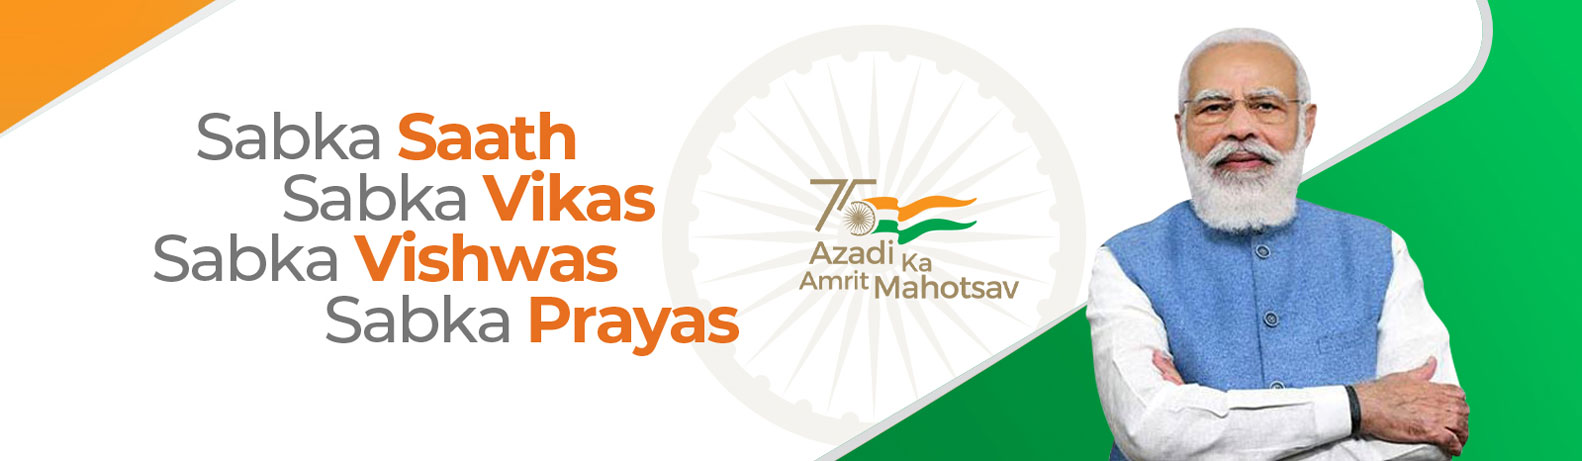
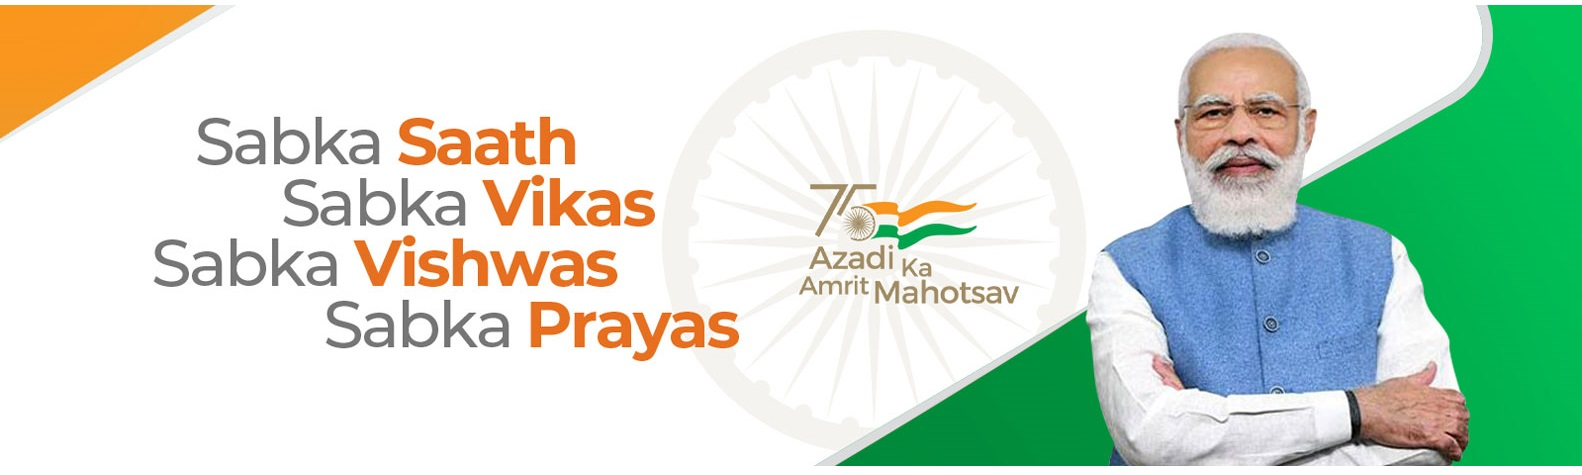
newer

diff --git a/src/assets/components/Home/Home.jsx b/src/assets/components/Home/Home.jsx
@@ -4,7 +4,7 @@ import 'bootstrap/dist/css/bootstrap.min.css';
 import Login from './Login';
 import Footer from './Footer';
 import CustomNavbar from './CustomNavbar';
-
+import Carousel from 'react-bootstrap/Carousel';
 
 const Home = () => (
 
@@ -19,7 +19,22 @@ const Home = () => (
     </div> */}
 
     <div className="row">
-      <img src='/img/akam-saath-prayas.jpg' className="w-100 h-0" alt="..." />
+
+
+    <Carousel interval={1000} controls={false}>
+          <Carousel.Item >
+          <img src='/img/akam-saath-prayas.jpg' className="w-100 h-0" alt="..." />
+          </Carousel.Item>
+          <Carousel.Item>
+          <img src='/img/Digital-india-black.jpg' className="w-100 h-0" alt="..." />
+          </Carousel.Item>
+          <Carousel.Item>
+          <img src='/img/fast-tag.jpg' className="w-100 h-0" alt="..." />
+          </Carousel.Item>
+
+         
+        </Carousel>
+      
     </div>
     <div className="row">
 

diff --git a/src/assets/components/Corousal.jsx b/src/assets/components/Corousal.jsx
@@ -1,0 +1,21 @@
+
+
+import Carousel from 'react-bootstrap/Carousel';
+const Corousal=({img})=>{
+   
+
+
+
+    return (
+        <Carousel>
+          <Carousel.Item interval={1000}>
+            <ExampleCarouselImage text="First slide" />
+            <Carousel.Caption>
+            
+            </Carousel.Caption>
+          </Carousel.Item>
+         
+        </Carousel>
+      );
+    
+}
